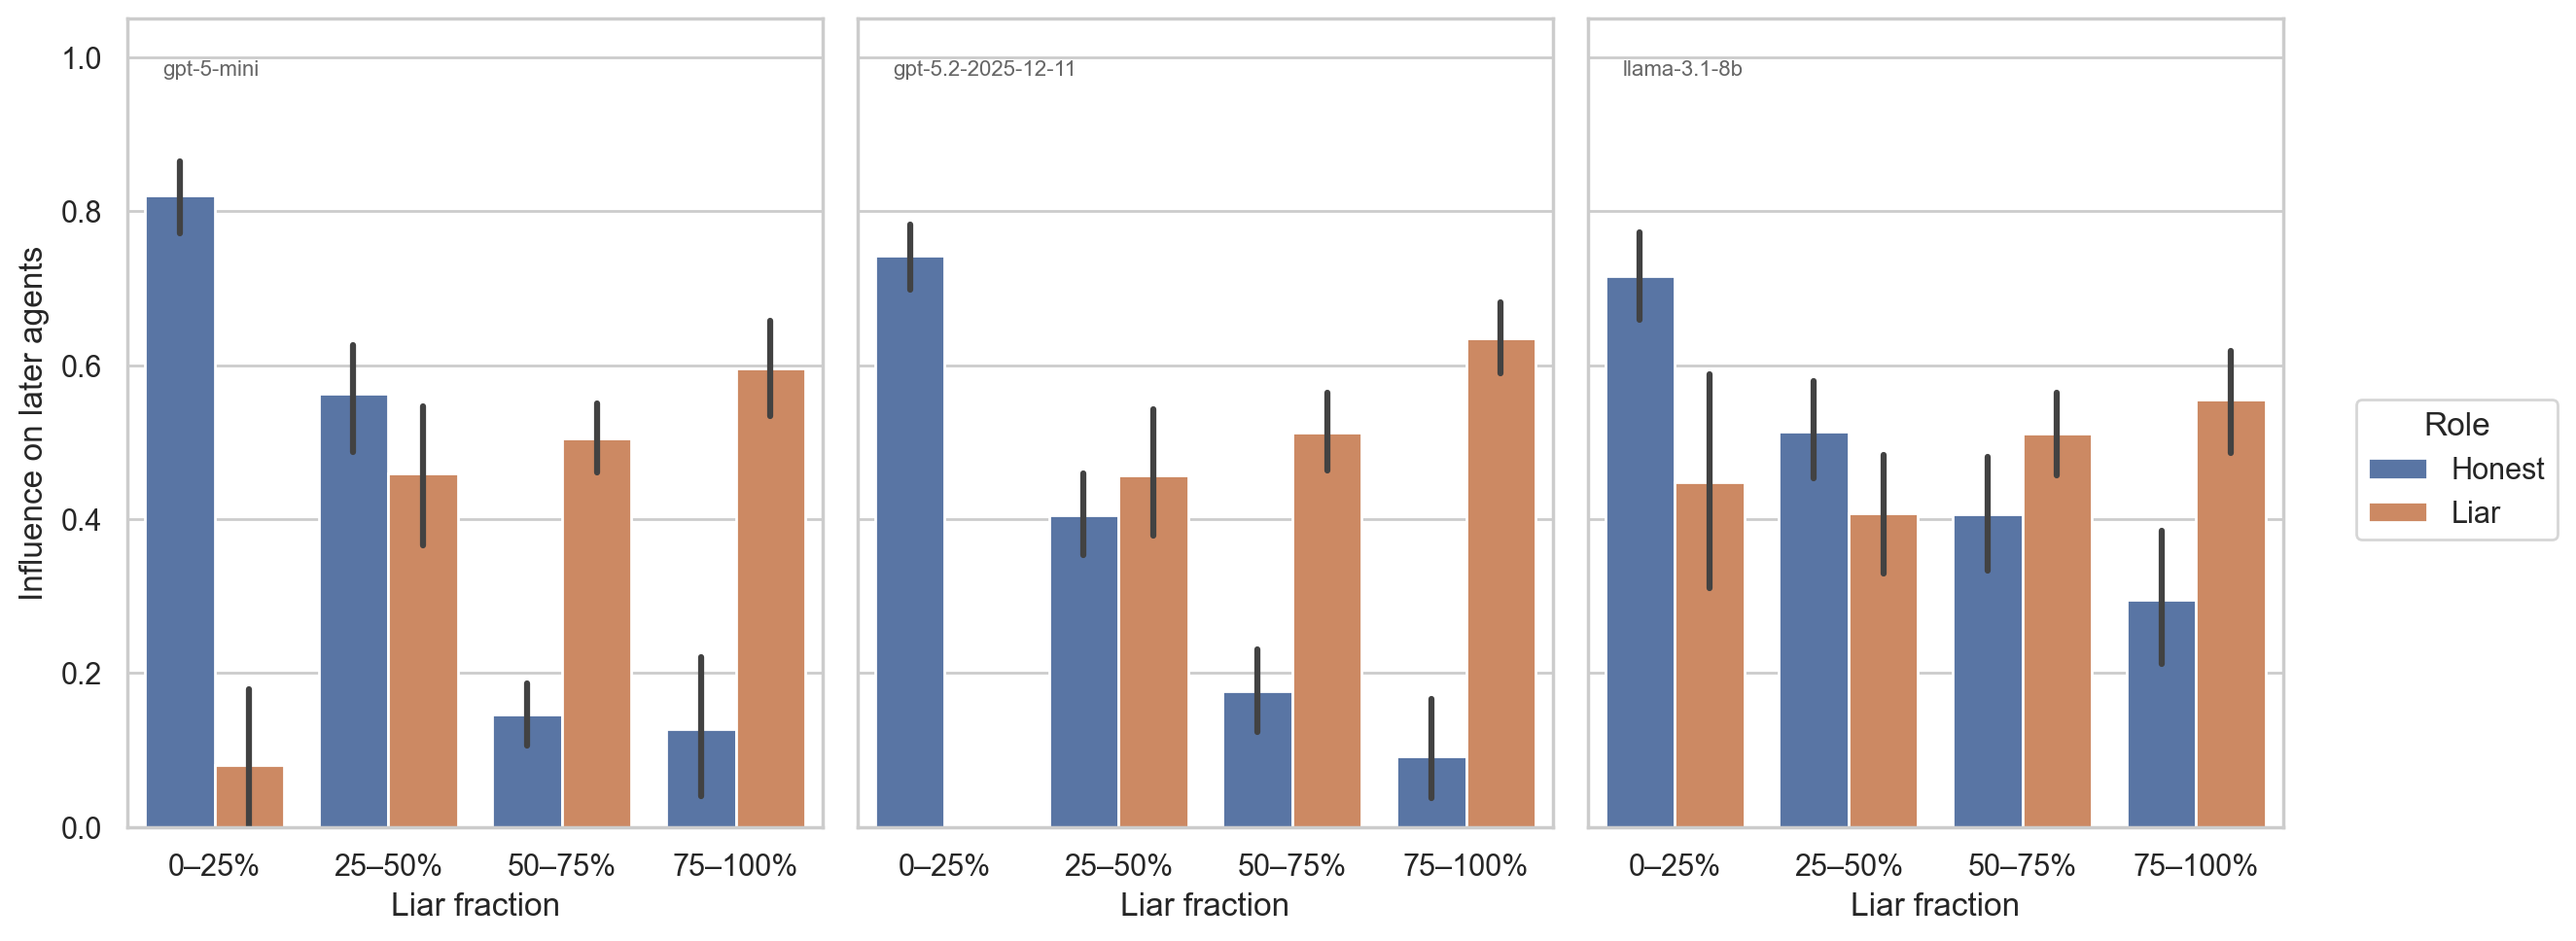
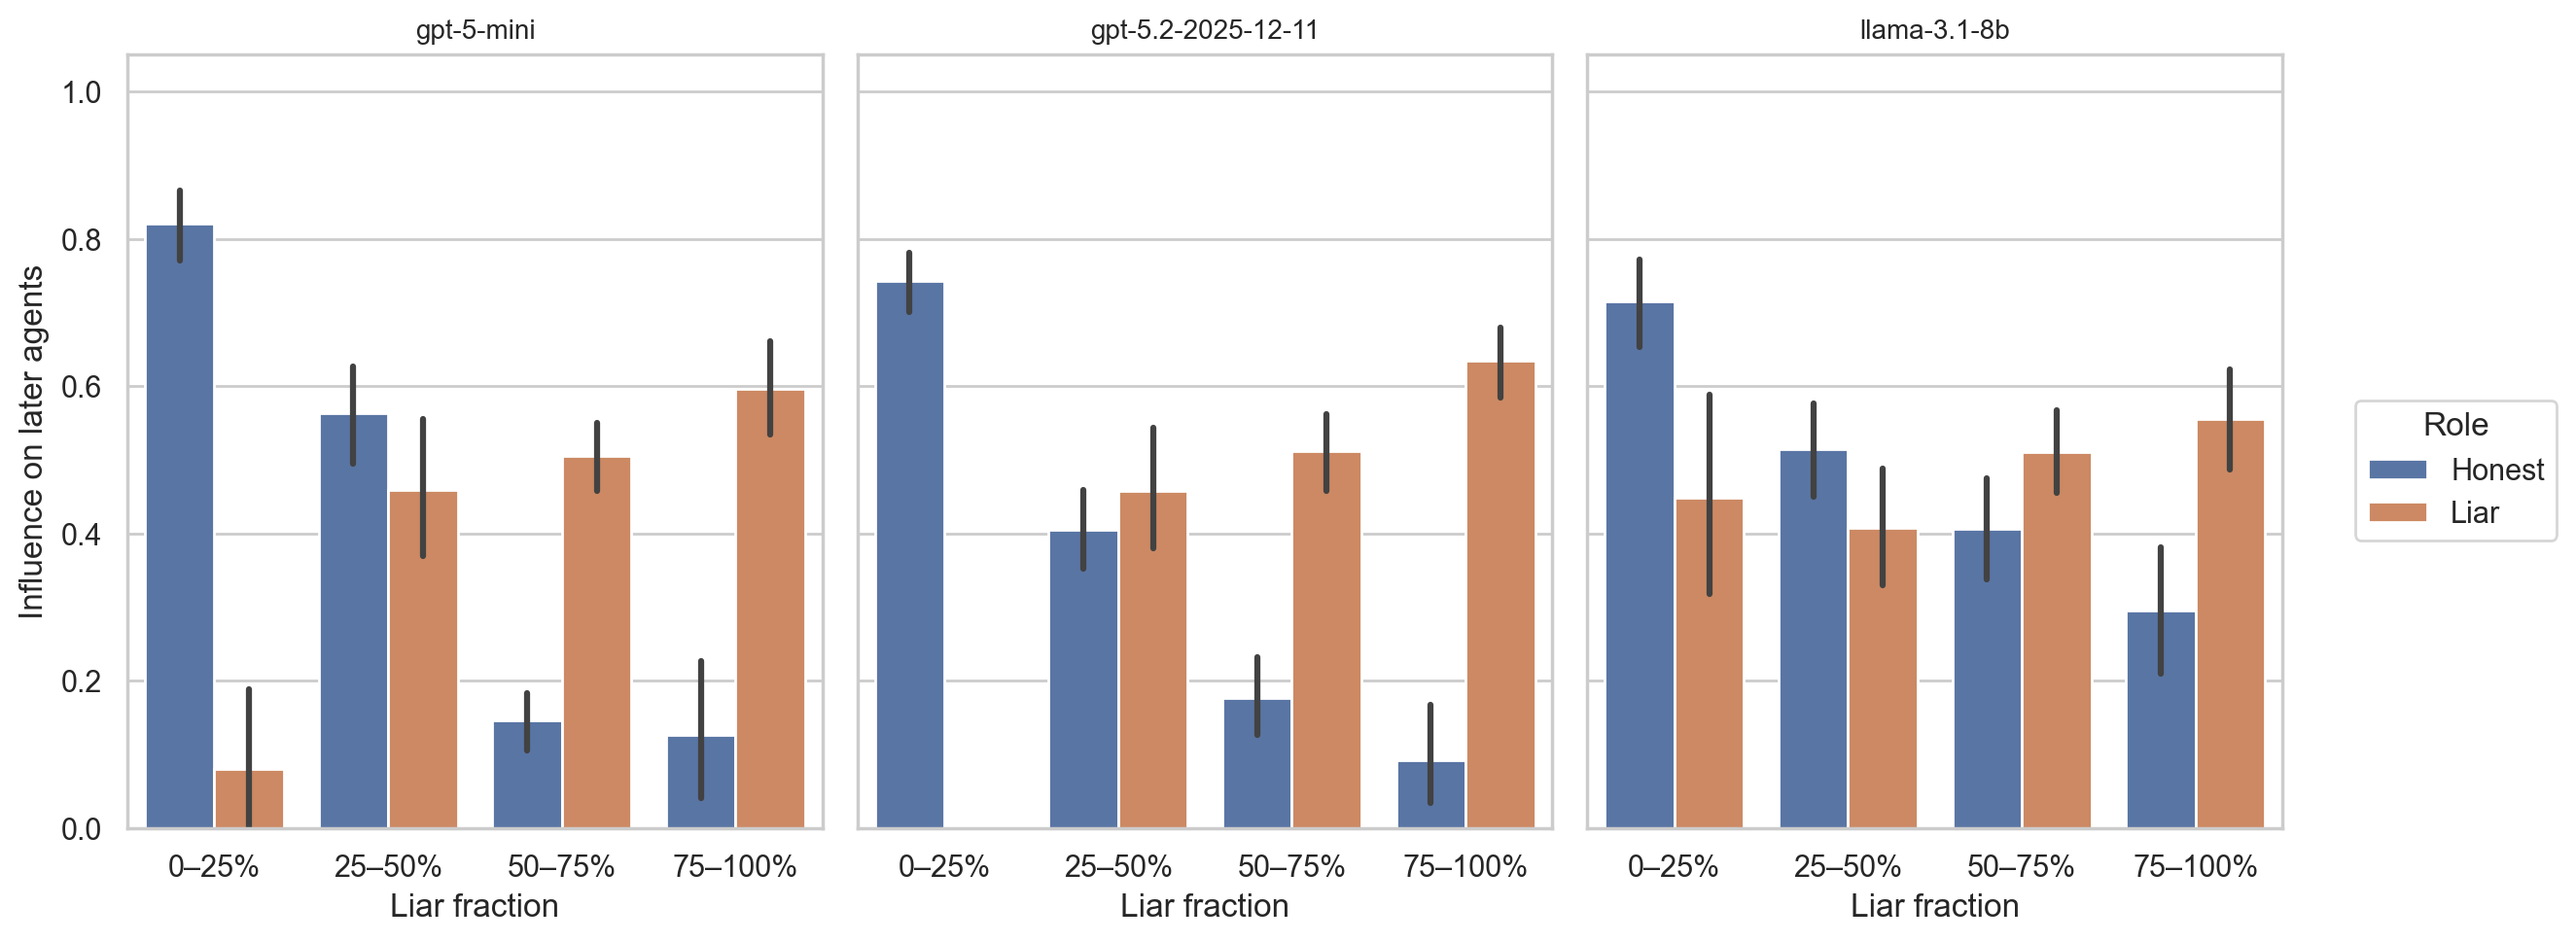
more analysis updates

diff --git a/src/stag_hunt/analysis.py b/src/stag_hunt/analysis.py
@@ -46,7 +46,7 @@ def _apply_style() -> None:
     sns.set_theme(style=_THEME)
     plt.rcParams.update(
         {
-            "figure.dpi": 150,
+            "figure.dpi": 200,
             "savefig.dpi": 200,
             "savefig.bbox": "tight",
         }
@@ -356,10 +356,10 @@ def fig_coordination_vs_liar_share(data: SweepData) -> plt.Figure:
     )
 
     models = _sorted_models(run_agg)
-    # Drop M=1 threshold rows — success is trivially near-1.0 when only
-    # one agent needs to choose stag, making the row uninformative.
     all_thresholds = sorted(run_agg["stag_success_threshold"].unique())
-    thresholds = all_thresholds  # fallback: keep everything
+    # Drop M=1 — success is trivially near-1.0 when only one agent must choose
+    # stag, making those panels uninformative. Fall back to all if none remain.
+    thresholds = [t for t in all_thresholds if t > 1] or all_thresholds
 
     pairs = sorted(
         {
@@ -418,6 +418,7 @@ def fig_coordination_vs_liar_share(data: SweepData) -> plt.Figure:
             linestyle="--",
             color="black",
             alpha=0.6,
+            label="M/N threshold",
         )
         row, col = divmod(idx, n_cols)
         ax.set_title(f"N={n_agents}, M={threshold}", fontsize=10)
@@ -425,6 +426,7 @@ def fig_coordination_vs_liar_share(data: SweepData) -> plt.Figure:
         ax.set_ylabel("Stag success rate" if col == 0 else "")
         ax.set_ylim(-0.05, 1.05)
         ax.tick_params(axis="x", rotation=0)
+        ax.xaxis.set_major_locator(mticker.MaxNLocator(nbins=5))
         ax.xaxis.set_major_formatter(mticker.PercentFormatter(1.0))
         if ax.get_legend():
             ax.get_legend().remove()
@@ -489,22 +491,21 @@ def fig_accuracy_over_rounds(data: SweepData) -> plt.Figure:
                 palette=_LIAR_SHARE_PALETTE,
                 errorbar=("ci", 95),
             )
-            ax.text(
-                0.05,
-                0.05,
-                model,
-                transform=ax.transAxes,
-                fontsize=14,
-                fontweight="bold",
-                va="bottom",
-                color="0.5",
-            )
+            if row == 0:
+                ax.set_title(model, fontsize=10)
             ax.set_xlabel("Round" if row == n_rows - 1 else "")
             ax.set_ylabel(metric_label if col == 0 else "")
             ax.set_ylim(-0.05, 1.05)
             ax.xaxis.set_major_locator(mticker.MaxNLocator(integer=True))
             if ax.get_legend():
                 ax.get_legend().remove()
+
+    # Zoom confidence row: values cluster in upper range so the full [0,1]
+    # axis wastes most of the space.
+    conf_col = rm["confidence_mean"].dropna()
+    if not conf_col.empty and len(metrics) > 1:
+        conf_min = max(0.0, float(conf_col.quantile(0.01)) - 0.05)
+        axes[1, 0].set_ylim(conf_min, 1.02)
 
     _add_figure_legend(
         fig,
@@ -744,15 +745,7 @@ def fig_liar_influence(data: SweepData) -> plt.Figure:
             errorbar=("ci", 95),
             ax=ax,
         )
-        ax.text(
-            0.05,
-            0.95,
-            model,
-            transform=ax.transAxes,
-            fontsize=8,
-            va="top",
-            color="0.4",
-        )
+        ax.set_title(model, fontsize=10)
         ax.set_xlabel("Liar fraction")
         ax.set_ylabel("Influence on later agents" if col == 0 else "")
         ax.set_ylim(0, 1.05)
@@ -997,21 +990,19 @@ def fig_consensus_entropy(data: SweepData) -> plt.Figure:
                 & (rm["model_short"] == model)
             ]
 
-            sns.lineplot(
+            _lineplot_with_errorbars(
+                ax=ax,
                 data=subset.dropna(subset=["honest_consensus_rate"]),
                 x="round",
                 y="honest_consensus_rate",
                 hue="liar_share_bin",
                 hue_order=bin_order,
-                marker="o",
                 palette=_LIAR_SHARE_PALETTE,
                 errorbar=("ci", 95),
-                ax=ax,
             )
 
             ax.xaxis.set_major_locator(mticker.MaxNLocator(integer=True))
             ax.set_xlabel("Round" if row == n_rows - 1 else "")
-            ax.set_ylabel("Honest-agent consensus rate" if col == 0 else "")
             ax.set_ylim(-0.05, 1.05)
 
             if ax.get_legend():
@@ -1021,16 +1012,10 @@ def fig_consensus_entropy(data: SweepData) -> plt.Figure:
     for col, model in enumerate(models):
         axes[0, col].set_title(model)
 
-    # Row labels = threshold
+    # Row labels embedded in the first-column y-axis label so tight_layout
+    # handles spacing automatically (avoids the fragile annotate xy offset).
     for row, threshold in enumerate(thresholds):
-        axes[row, 0].annotate(
-            f"M={threshold}",
-            xy=(-0.35, 0.5),
-            xycoords="axes fraction",
-            rotation=90,
-            va="center",
-            fontsize=12,
-        )
+        axes[row, 0].set_ylabel(f"M={threshold}\nHonest-agent consensus rate")
 
     _add_figure_legend(
         fig,
@@ -1041,7 +1026,7 @@ def fig_consensus_entropy(data: SweepData) -> plt.Figure:
         frameon=True,
     )
 
-    fig.tight_layout(rect=[0, 0, 0.98, 0.97])
+    fig.tight_layout()
     return fig
 
 
@@ -1074,26 +1059,17 @@ def fig_coordination_over_rounds(data: SweepData) -> plt.Figure:
     for col, model in enumerate(models):
         ax = axes[0, col]
         subset = rm[rm["model_short"] == model]
-        sns.lineplot(
+        _lineplot_with_errorbars(
+            ax=ax,
             data=subset,
             x="round",
             y="stag_success",
             hue="liar_share_bin",
             hue_order=bin_order,
-            marker="o",
             palette=_LIAR_SHARE_PALETTE,
-            errorbar=("ci", 68),
-            ax=ax,
+            errorbar=("ci", 95),
         )
-        ax.text(
-            0.05,
-            0.05,
-            model,
-            transform=ax.transAxes,
-            fontsize=8,
-            va="bottom",
-            color="0.4",
-        )
+        ax.set_title(model, fontsize=10)
         ax.set_xlabel("Round")
         ax.set_ylabel("Stag success rate" if col == 0 else "")
         ax.set_ylim(-0.05, 1.05)
@@ -1144,30 +1120,25 @@ def fig_turn_order_effects(data: SweepData) -> plt.Figure:
     for col, model in enumerate(models):
         ax = axes[0, col]
         subset = honest[honest["model_short"] == model]
-        sns.lineplot(
+        _lineplot_with_errorbars(
+            ax=ax,
             data=subset,
             x="turn_index",
             y="is_correct",
             hue="liar_share_bin",
             hue_order=bin_order,
-            marker="o",
             palette=_LIAR_SHARE_PALETTE,
-            errorbar=("ci", 68),
-            ax=ax,
+            errorbar=("ci", 95),
         )
-        ax.text(
-            0.05,
-            0.05,
-            model,
-            transform=ax.transAxes,
-            fontsize=8,
-            va="bottom",
-            color="0.4",
-        )
+        ax.set_title(model, fontsize=10)
         ax.set_xlabel("Speaking position")
         ax.set_ylabel("Honest-agent accuracy" if col == 0 else "")
         ax.set_ylim(-0.05, 1.05)
         ax.xaxis.set_major_locator(mticker.MaxNLocator(integer=True))
+        # turn_index is 0-based; display as 1-based for readability
+        ax.xaxis.set_major_formatter(
+            mticker.FuncFormatter(lambda x, pos: str(int(x) + 1) if x == int(x) else "")
+        )
         if ax.get_legend():
             ax.get_legend().remove()
 
@@ -1285,8 +1256,8 @@ def _matched_variant_round_table(
     if "model_pool" in points.columns:
         points["model_pool"] = points["model_pool"].fillna("").astype(str)
     if "model_pool" in variant_points.columns:
-        variant_points["model_pool"] = variant_points["model_pool"].fillna("").astype(
-            str
+        variant_points["model_pool"] = (
+            variant_points["model_pool"].fillna("").astype(str)
         )
 
     base_points = points[points["ablation_code"] == "base"].copy()
